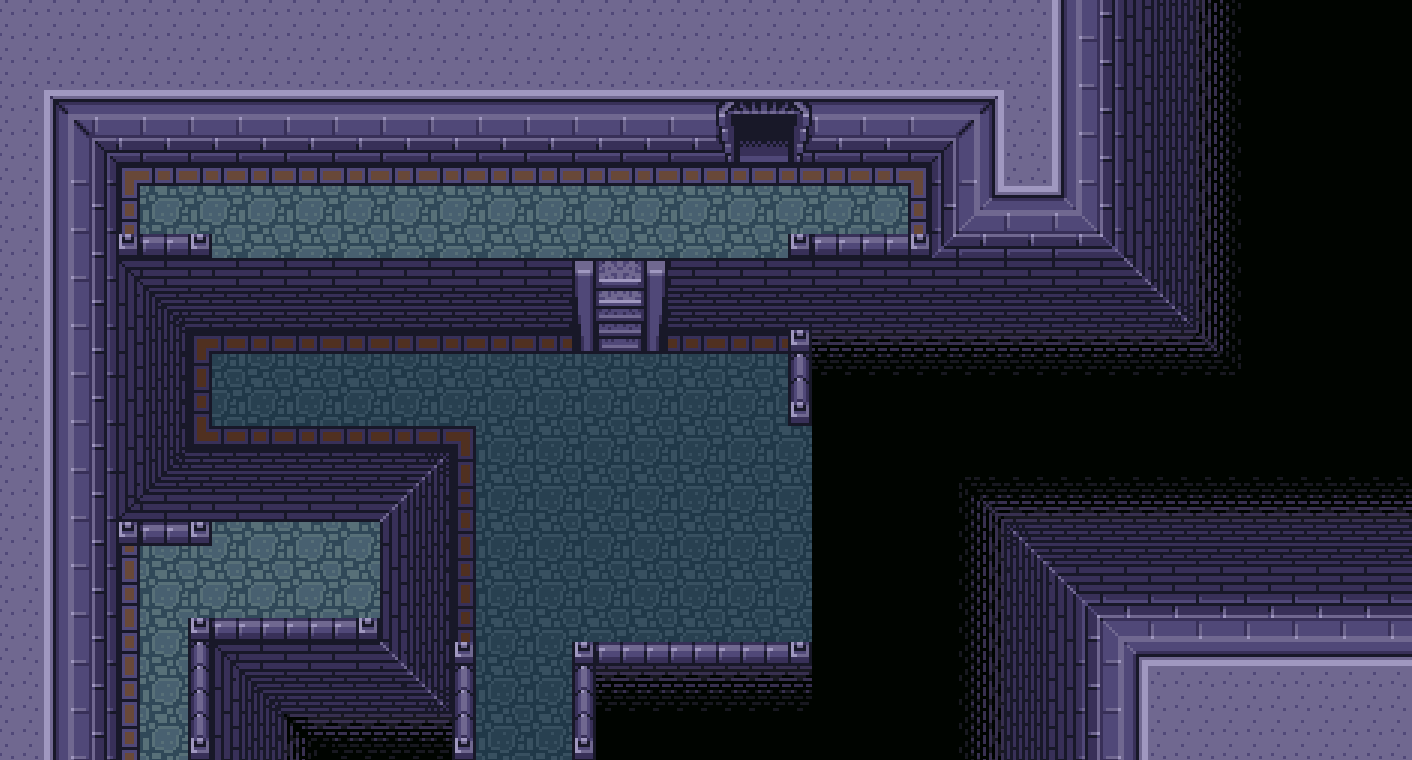
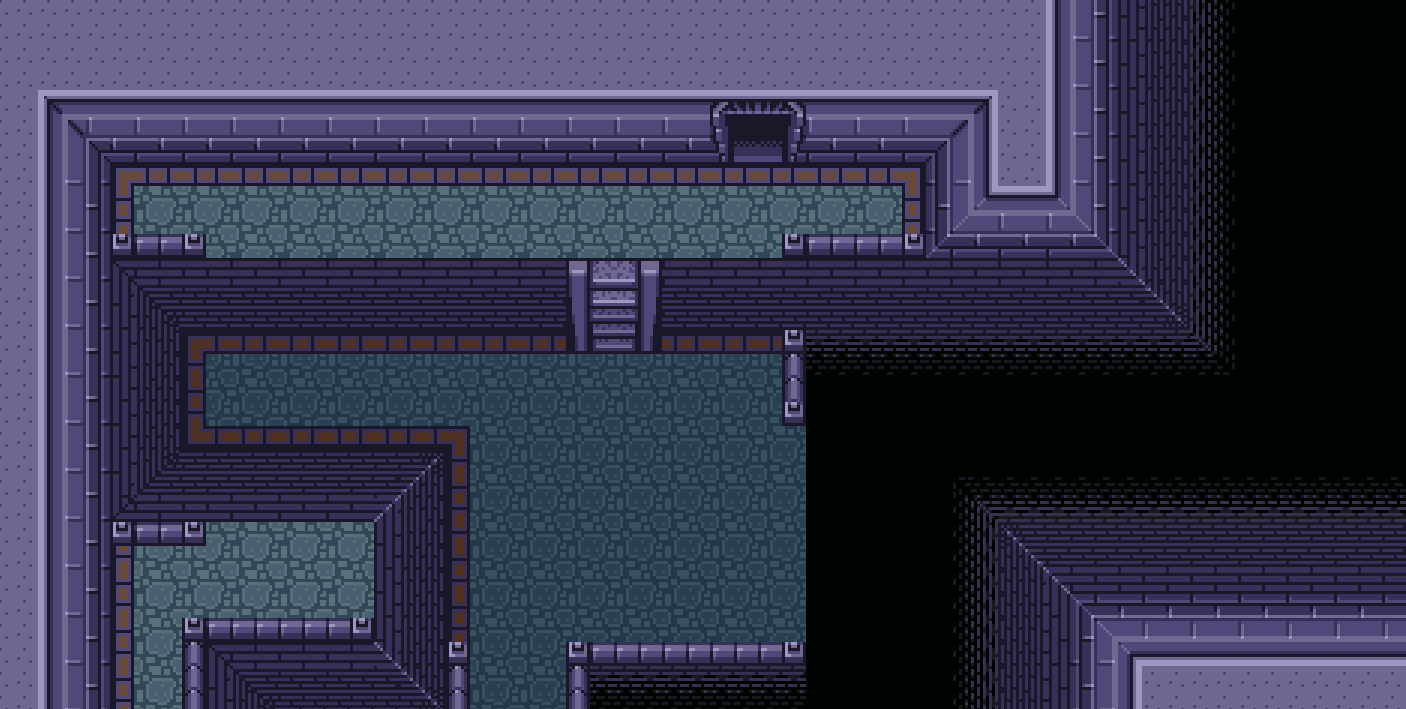
feat: update hyrule castle dungeon room move location(no leak, release check)

diff --git a/LinkToThePast/Zelda/DungeonGameMode.cpp b/LinkToThePast/Zelda/DungeonGameMode.cpp
@@ -69,11 +69,10 @@ void ACastleDungeonGameMode::BeginPlayRoomActor()
 	RoomDataes.push_back({ { 0, 0 } ,{ 780, 720 } });			// Dungeon1	
 	RoomDataes.push_back({ { 0, 720 } ,{ 780, 760 } });			// Dungeon2
 	RoomDataes.push_back({ { 780, 720 } ,{ 760, 760 } });		// Dungeon3
-	RoomDataes.push_back({ { 1540, 720 } ,{ 1412, 760 } });		// Dungeon4
+	RoomDataes.push_back({ { 1546, 720 } ,{ 1406, 709 } });		// Dungeon4
 	RoomDataes.push_back({ { 1752, 0 } ,{ 1200, 720 } });		// Dungeon5
-	RoomDataes.push_back({ { 1546, 1480 } ,{ 1406, 620 } });	// Dungeon6
-	RoomDataes.push_back({ { 1546, 2100 } ,{ 1406, 824 } });	// Dungeon7
-	RoomDataes.push_back({ { 0, 1480 } ,{ 1546, 1444 } });		// Dungeon8
+	RoomDataes.push_back({ { 1546, 1429 } ,{ 1406, 1496 } });	// Dungeon6
+	RoomDataes.push_back({ { 0, 1480 } ,{ 1546, 1444 } });		// Dungeon7
 
 	CreateRoomActor("CastleDungeon", 0);
 
@@ -88,12 +87,12 @@ void ACastleDungeonGameMode::BeginPlayRoomActor()
 	this->Roomes[1]->GetColSpriteRenderer2F()->SetComponentLocation(ColMap2Scale.Half());
 
 
-	this->Roomes[7]->SetIsSecondFloor(true);
-	this->Roomes[7]->GetColSpriteRenderer2F()->SetOrder(ERenderOrder::COLMAP);
-	this->Roomes[7]->GetColSpriteRenderer2F()->SetSprite("CastleDungeon8Collision2F.png");
-	FVector2D ColMap8Scale = this->Roomes[7]->GetColSpriteRenderer2F()->SetSpriteScale(1.0f);
-	this->Roomes[7]->GetColSpriteRenderer2F()->SetComponentLocation(ColMap8Scale.Half());
-	this->Roomes[7]->CreateEnvSprite("CastleDungeon8Bridge.png", FVector2D(1008, 410), FVector2D(144, 500), ERenderOrder::SECOND_FLOOR);
+	this->Roomes[6]->SetIsSecondFloor(true);
+	this->Roomes[6]->GetColSpriteRenderer2F()->SetOrder(ERenderOrder::COLMAP);
+	this->Roomes[6]->GetColSpriteRenderer2F()->SetSprite("CastleDungeon7Collision2F.png");
+	FVector2D ColMap8Scale = this->Roomes[6]->GetColSpriteRenderer2F()->SetSpriteScale(1.0f);
+	this->Roomes[6]->GetColSpriteRenderer2F()->SetComponentLocation(ColMap8Scale.Half());
+	this->Roomes[6]->CreateEnvSprite("CastleDungeon7Bridge.png", FVector2D(1008, 410), FVector2D(144, 500), ERenderOrder::SECOND_FLOOR);
 	
 }
 

diff --git a/LinkToThePast/Zelda/ZeldaCore.cpp b/LinkToThePast/Zelda/ZeldaCore.cpp
@@ -117,7 +117,7 @@ void UZeldaCore::BeginPlay()
 	UEngineAPICore::GetCore()->CreateLevel<AHyruleCastleGameMode, APlayerCharacter>("HyruleCastle");
 	//UEngineAPICore::GetCore()->CreateLevel<ATitleGameMode, AActor>("Title");
 
-	UEngineAPICore::GetCore()->OpenLevel("HyruleCastle");
+	UEngineAPICore::GetCore()->OpenLevel("CastleDungeon");
 }
 
 void UZeldaCore::Tick()

diff --git a/LinkToThePast/Zelda/PlayerCharacter.cpp b/LinkToThePast/Zelda/PlayerCharacter.cpp
@@ -183,7 +183,8 @@ void APlayerCharacter::LevelChangeStart()
 	}
 	else
 	{
-		SetActorLocation({ 2080, 1544 });
+		//SetActorLocation({ 2080, 1544 });
+		SetActorLocation({ 486, 347 });
 	}
 	
 }
